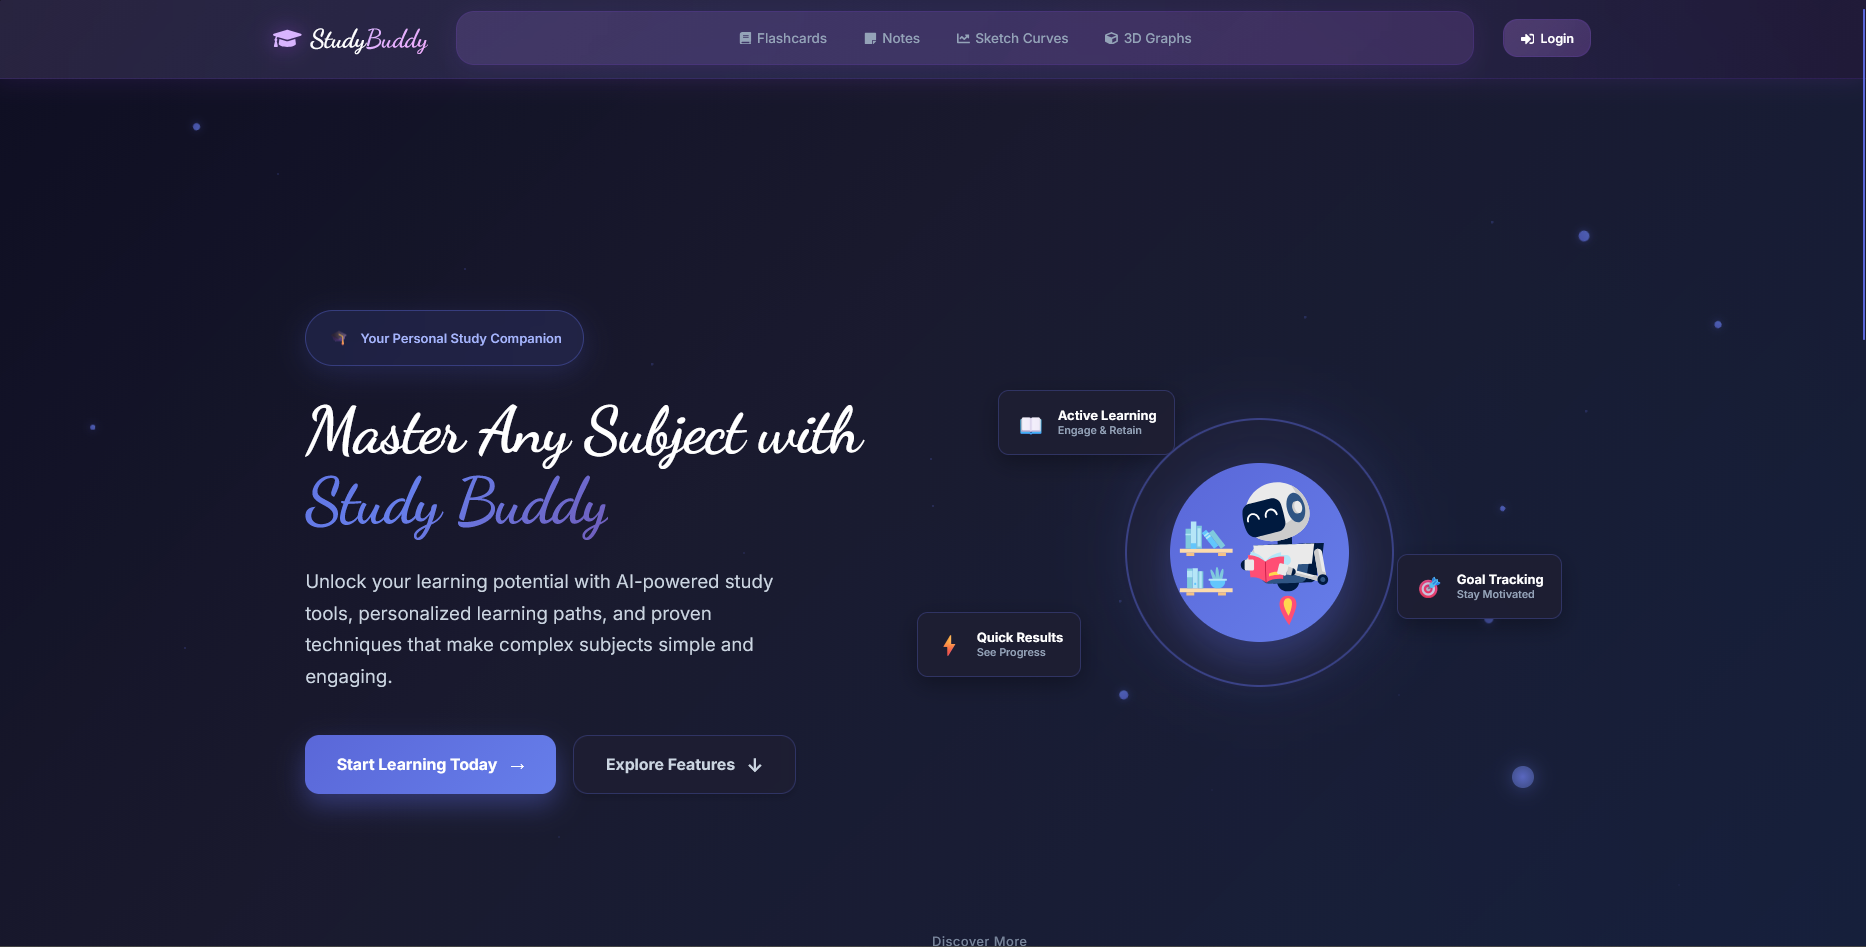
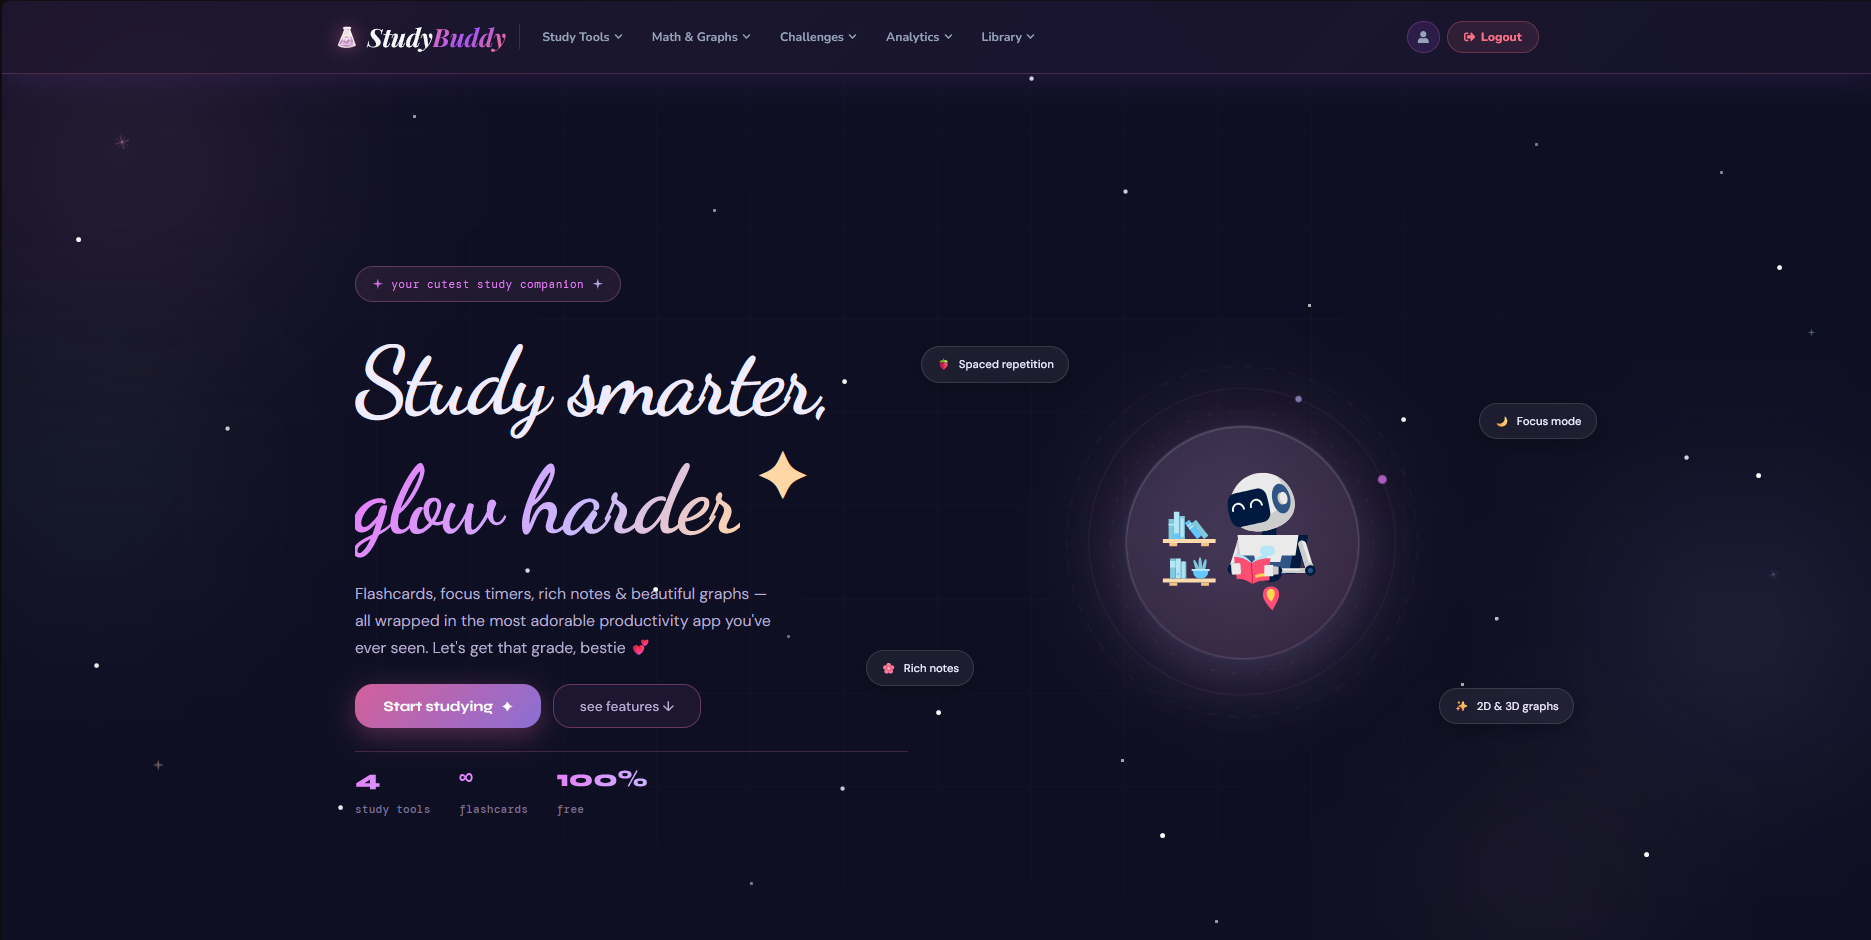
added img

diff --git a/README.md b/README.md
@@ -35,6 +35,8 @@ StudyBuddy learns your patterns, suggests optimal study environments, visualizes
 | **📝 Rich Notes + Knowledge Graph** | Markdown-style editor with `[[wiki-links]]` that auto-generate a visual concept map | TipTap editor, ProseMirror plugins, Canvas force-directed graph |
 | **📊 Mastery Tracker** | Rate confidence per topic (1-10), visualize progress with heatmaps & radar charts | Recharts, custom SVG components, debounced Firestore sync |
 | **🌳 Habit Stacking** | Build routines with visual "growth trees" that evolve as you maintain streaks | SVG path animations, seeded randomization for unique trees |
+![StudyBuddy ](https://github.com/Bushraabir/study-buddy/blob/main/public/graph.png)
+
 
 ### 🔬 Advanced Visualization
 | Tool | Use Case | Libraries |